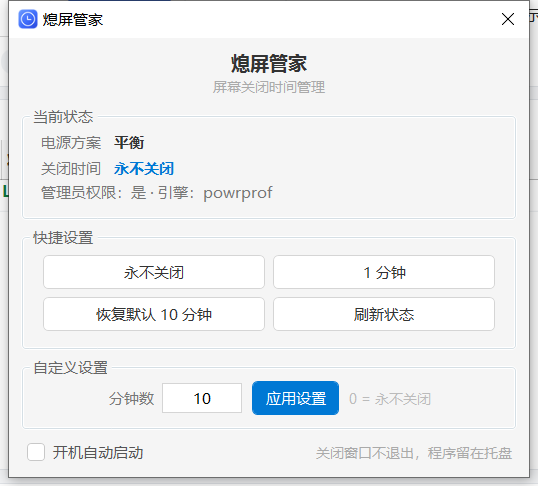
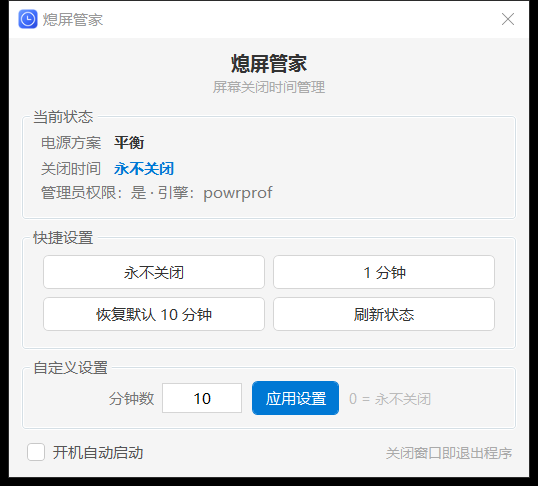
004 取消托盘常驻：关闭窗口直接退出进程
- 移除 TrayService 与托盘生命周期，关闭主窗口即结束进程（ShutdownMode=OnMainWindowClose）
- 去掉 --tray 启动参数与托盘气泡提示，设置项同步移除 TrayTipShown
- 移除 WinForms 依赖（UseWindowsForms 与 WFO0003 抑制），免安装包体积由 73MB 降至 63MB
- README 同步为「关闭即退出」的实际行为，更新界面截图

Changed region(s): [[0.0, 0.0, 1.0, 1.0], [0.0595, 0.0, 0.2082, 0.0617], [0.9219, 0.0309, 0.9517, 0.0617]]

diff --git a/004一款电脑定时关屏幕小工具/ScreenOffManager/MainWindow.xaml b/004一款电脑定时关屏幕小工具/ScreenOffManager/MainWindow.xaml
@@ -101,7 +101,7 @@
             </Grid>
         </GroupBox>
 
-        <!-- 底部：开机自启 + 托盘提示 -->
+        <!-- 底部：开机自启 -->
         <Grid Grid.Row="4" Margin="14,10,14,0">
             <Grid.ColumnDefinitions>
                 <ColumnDefinition Width="Auto" />
@@ -112,7 +112,7 @@
                       IsChecked="{Binding IsAutoStart}"
                       VerticalAlignment="Center" />
 
-            <TextBlock Grid.Column="1" Text="关闭窗口不退出，程序留在托盘"
+            <TextBlock Grid.Column="1" Text="关闭窗口即退出程序"
                        HorizontalAlignment="Right" VerticalAlignment="Center"
                        Foreground="#AAAAAA" FontSize="11" />
         </Grid>

diff --git a/004一款电脑定时关屏幕小工具/ScreenOffManager/App.xaml b/004一款电脑定时关屏幕小工具/ScreenOffManager/App.xaml
@@ -1,7 +1,7 @@
 <Application x:Class="ScreenOffManager.App"
              xmlns="http://schemas.microsoft.com/winfx/2006/xaml/presentation"
              xmlns:x="http://schemas.microsoft.com/winfx/2006/xaml"
-             ShutdownMode="OnExplicitShutdown">
+             ShutdownMode="OnMainWindowClose">
     <Application.Resources>
         <ResourceDictionary>
             <ResourceDictionary.MergedDictionaries>

diff --git a/004一款电脑定时关屏幕小工具/ScreenOffManager/App.xaml.cs b/004一款电脑定时关屏幕小工具/ScreenOffManager/App.xaml.cs
@@ -2,22 +2,17 @@ using System.Threading;
 using System.Windows;
 using System.Windows.Threading;
 using ScreenOffManager.Services;
-using ScreenOffManager.ViewModels;
 
 namespace ScreenOffManager;
 
 /// <summary>
-/// 应用入口：单实例、全局异常兜底、托盘生命周期。
-/// 关闭窗口只是隐藏，退出必须走托盘菜单（或再次点击托盘「退出」）。
+/// 应用入口：单实例与全局异常兜底。
+/// 关闭主窗口即退出进程，不常驻后台、不驻留托盘。
 /// </summary>
 public partial class App
 {
     private Mutex? _mutex;
-    private TrayService? _tray;
-    private MainWindow? _window;
-    private MainViewModel? _viewModel;
     private AppSettings _settings = new();
-    private bool _exiting;
 
     protected override void OnStartup(StartupEventArgs e)
     {
@@ -25,7 +20,7 @@ public partial class App
         _mutex = new Mutex(true, @"Local\ScreenOffManager.SingleInstance", out var isFirstInstance);
         if (!isFirstInstance)
         {
-            System.Windows.MessageBox.Show("熄屏管家已经在运行了，请查看系统托盘。", "熄屏管家",
+            System.Windows.MessageBox.Show("熄屏管家已经在运行了，请查看任务栏。", "熄屏管家",
                 System.Windows.MessageBoxButton.OK, System.Windows.MessageBoxImage.Information);
             Shutdown();
             return;
@@ -37,49 +32,8 @@ public partial class App
         _settings = AppSettings.Load();
         Log.Info($"启动：管理员={PowerSettingsService.IsAdmin()}");
 
-        _window = new MainWindow(_settings);
-        _viewModel = _window.ViewModel;
-
-        _tray = new TrayService(StartupManager.IsEnabled);
-        _tray.OpenRequested += ShowMainWindow;
-        _tray.PresetRequested += minutes =>
-            Dispatcher.InvokeAsync(() => _ = _viewModel.ApplyPresetAsync(minutes, showDialog: false));
-        _tray.AutoStartToggled += enabled =>
-            Dispatcher.InvokeAsync(() => _viewModel.IsAutoStart = enabled);
-        _tray.ExitRequested += ExitApplication;
-
-        _viewModel.BalloonRequested += (title, text) =>
-            _tray.ShowTip(title, text, warning: title.Contains("失败"));
-
-        // 主界面勾选变化 → 同步托盘菜单的勾选状态
-        _viewModel.PropertyChanged += (_, args) =>
-        {
-            if (args.PropertyName == nameof(MainViewModel.IsAutoStart))
-                _tray.SyncAutoStart(_viewModel.IsAutoStart);
-        };
-
-        // 关窗 = 收进托盘
-        _window.HideRequested += (_, _) =>
-        {
-            _window.Hide();
-
-            if (!_settings.TrayTipShown)
-            {
-                _tray.ShowTip("熄屏管家仍在运行", "关闭窗口不会退出程序。右键托盘图标可以快速切换，菜单里可以退出。");
-                _settings.TrayTipShown = true;
-                _settings.Save();
-            }
-        };
-
-        var startMinimized = e.Args.Any(a => a.Equals("--tray", StringComparison.OrdinalIgnoreCase));
-        if (startMinimized)
-        {
-            _tray.ShowTip("熄屏管家已启动", "程序在托盘后台运行，双击图标打开主界面。");
-        }
-        else
-        {
-            ShowMainWindow();
-        }
+        MainWindow = new MainWindow(_settings);
+        MainWindow.Show();
     }
 
     private void RegisterExceptionHandlers()
@@ -108,34 +62,9 @@ public partial class App
         e.Handled = true;
     }
 
-    private void ShowMainWindow()
-    {
-        if (_window is null) return;
-
-        _window.Show();
-        if (_window.WindowState == WindowState.Minimized)
-            _window.WindowState = WindowState.Normal;
-
-        _window.Activate();
-        _window.Topmost = true;
-        _window.Topmost = false;
-    }
-
-    private void ExitApplication()
-    {
-        if (_exiting) return;
-        _exiting = true;
-
-        _settings.Save();
-        _tray?.Dispose();
-        _window?.AllowClose();
-        Shutdown();
-    }
-
     protected override void OnExit(ExitEventArgs e)
     {
-        _tray?.Dispose();
-
+        try { _settings.Save(); } catch { /* 退出阶段忽略 */ }
         try { _mutex?.Dispose(); } catch { /* 忽略 */ }
 
         base.OnExit(e);

diff --git a/004一款电脑定时关屏幕小工具/ScreenOffManager/ViewModels/MainViewModel.cs b/004一款电脑定时关屏幕小工具/ScreenOffManager/ViewModels/MainViewModel.cs
@@ -8,11 +8,8 @@ public class MainViewModel : ObservableObject
     private readonly PowerSettingsService _service = new();
     private readonly AppSettings _settings;
 
-    /// <summary>需要在界面上弹窗提示（前台操作）</summary>
+    /// <summary>需要在界面上弹窗提示</summary>
     public event Action<string, string>? MessageRequested;
-
-    /// <summary>需要用托盘气泡提示（后台操作，不打断用户）</summary>
-    public event Action<string, string>? BalloonRequested;
 
     private string _schemeName = "读取中…";
     private string _timeoutText = "读取中…";
@@ -138,8 +135,8 @@ public class MainViewModel : ObservableObject
         }
     }
 
-    /// <summary>应用预设分钟数。showDialog=false 时用托盘气泡反馈（后台操作不打扰）</summary>
-    public async Task ApplyPresetAsync(int minutes, bool showDialog = true)
+    /// <summary>应用预设分钟数</summary>
+    public async Task ApplyPresetAsync(int minutes)
     {
         if (IsRefreshing) return;
         IsRefreshing = true;
@@ -150,12 +147,12 @@ public class MainViewModel : ObservableObject
         {
             await Task.Run(() => _service.SetScreenTimeout(minutes));
             await RefreshAsync();
-            Notify("设置成功", $"屏幕关闭时间已设置为「{label}」。", showDialog);
+            MessageRequested?.Invoke("设置成功", $"屏幕关闭时间已设置为「{label}」。");
         }
         catch (Exception ex)
         {
             Log.Error($"设置屏幕关闭时间失败（{label}）", ex);
-            Notify("设置失败", ex.Message, showDialog);
+            MessageRequested?.Invoke("设置失败", ex.Message);
             await RefreshAsync();
         }
         finally
@@ -184,13 +181,5 @@ public class MainViewModel : ObservableObject
         _settings.Save();
 
         await ApplyPresetAsync(minutes);
-    }
-
-    private void Notify(string title, string message, bool showDialog)
-    {
-        if (showDialog)
-            MessageRequested?.Invoke(title, message);
-        else
-            BalloonRequested?.Invoke(title, message);
     }
 }

diff --git a/004一款电脑定时关屏幕小工具/ScreenOffManager/MainWindow.xaml.cs b/004一款电脑定时关屏幕小工具/ScreenOffManager/MainWindow.xaml.cs
@@ -1,4 +1,3 @@
-using System.ComponentModel;
 using System.Windows;
 using ScreenOffManager.Services;
 using ScreenOffManager.ViewModels;
@@ -7,12 +6,7 @@ namespace ScreenOffManager;
 
 public partial class MainWindow : Window
 {
-    private bool _allowClose;
-
     public MainViewModel ViewModel { get; }
-
-    /// <summary>用户尝试关闭窗口（由 App 决定收进托盘还是退出）</summary>
-    public event EventHandler? HideRequested;
 
     public MainWindow(AppSettings settings)
     {
@@ -29,32 +23,9 @@ public partial class MainWindow : Window
 
         Dispatcher.Invoke(() =>
         {
-            // 窗口隐藏时不要弹无主对话框，避免用户找不到
-            if (IsVisible)
-            {
-                System.Windows.MessageBox.Show(this, message, title,
-                    System.Windows.MessageBoxButton.OK,
-                    isError ? System.Windows.MessageBoxImage.Error : System.Windows.MessageBoxImage.Information);
-            }
+            System.Windows.MessageBox.Show(this, message, title,
+                System.Windows.MessageBoxButton.OK,
+                isError ? System.Windows.MessageBoxImage.Error : System.Windows.MessageBoxImage.Information);
         });
-    }
-
-    protected override void OnClosing(CancelEventArgs e)
-    {
-        if (!_allowClose)
-        {
-            // 关窗只隐藏，程序继续在托盘运行
-            e.Cancel = true;
-            HideRequested?.Invoke(this, EventArgs.Empty);
-        }
-
-        base.OnClosing(e);
-    }
-
-    /// <summary>真正的退出（由托盘「退出」调用）</summary>
-    public void AllowClose()
-    {
-        _allowClose = true;
-        Close();
     }
 }

diff --git a/004一款电脑定时关屏幕小工具/ScreenOffManager/Services/AppSettings.cs b/004一款电脑定时关屏幕小工具/ScreenOffManager/Services/AppSettings.cs
@@ -11,9 +11,6 @@ public class AppSettings
     /// <summary>上次使用的自定义分钟数</summary>
     public string LastCustomMinutes { get; set; } = "10";
 
-    /// <summary>是否已经提示过"关闭窗口会留在托盘"</summary>
-    public bool TrayTipShown { get; set; }
-
     private static string DataDirectory => Path.Combine(
         Environment.GetFolderPath(Environment.SpecialFolder.ApplicationData), "ScreenOffManager");
 

diff --git a/004一款电脑定时关屏幕小工具/ScreenOffManager/Services/StartupManager.cs b/004一款电脑定时关屏幕小工具/ScreenOffManager/Services/StartupManager.cs
@@ -50,8 +50,8 @@ public static class StartupManager
                     return;
                 }
 
-                // --tray：开机时静默启动到托盘，不弹窗打扰
-                key.SetValue(ValueName, $"\"{exe}\" --tray");
+                // 直接启动主界面：程序不常驻后台，启动即是可用状态
+                key.SetValue(ValueName, $"\"{exe}\"");
             }
             else
             {

diff --git a/004一款电脑定时关屏幕小工具/README.md b/004一款电脑定时关屏幕小工具/README.md
@@ -17,7 +17,7 @@
 | **自定义设置** | 输入 0–1440 分钟，非法输入有明确提示，并记住上次的值 |
 | **读写方式** | 直接调用系统电源接口，不启动外部进程，无控制台窗口闪现 |
 | **语言无关** | 不解析系统输出文本，中文 / 英文 / 其他语言的 Windows 读数一致 |
-| **托盘常驻** | 关闭窗口只是收进托盘，右键菜单可直接切换，双击打开主界面 |
+| **关闭即退出** | 关窗即结束进程，不常驻后台、不留托盘图标 |
 | **开机自启** | 一键写入 `HKCU\...\Run`，免管理员、免任务计划 |
 | **单实例** | 重复启动会给出提示并退出，避免多开互抢设置 |
 | **异常兜底** | 全局异常捕获 + 文件日志，出问题能查得清 |
@@ -37,7 +37,7 @@
     ├── ScreenOffManager.csproj
     ├── app.manifest                        # asInvoker + PerMonitorV2 DPI 感知
     ├── AssemblyInfo.cs
-    ├── App.xaml / App.xaml.cs              # 入口：单实例、全局异常兜底、托盘生命周期
+    ├── App.xaml / App.xaml.cs              # 入口：单实例、全局异常兜底
     ├── MainWindow.xaml / MainWindow.xaml.cs
     ├── Models/
     │   └── PowerSchemeInfo.cs              # 电源方案数据模型 + 时长格式化
@@ -47,7 +47,6 @@
     │   ├── PowerSettingsService.cs         # 编排：原生优先，失败降级
     │   ├── AppSettings.cs                  # %AppData% 配置持久化
     │   ├── StartupManager.cs               # 开机自启（注册表 Run 项）
-    │   ├── TrayService.cs                  # 托盘图标与右键菜单
     │   └── Log.cs                          # 极简文件日志
     ├── ViewModels/
     │   ├── ObservableObject.cs             # INotifyPropertyChanged 基类
@@ -74,7 +73,6 @@
 |------|------|
 | .NET 10 / WPF | 桌面应用框架 |
 | `powrprof.dll` P/Invoke | 读写电源方案（`PowerReadACValueIndex` / `PowerWriteACValueIndex` 等） |
-| WinForms `NotifyIcon` | 托盘图标（`UseWindowsForms`，零第三方依赖） |
 | `Microsoft.Win32.Registry` | 开机自启 |
 | `System.Text.Json` | 配置持久化 |
 | MVVM | UI 与业务解耦 |
@@ -131,11 +129,11 @@ dotnet publish ScreenOffManager.csproj -c Release -r win-x64 \
 3. **自定义设置**：填分钟数后点「应用设置」（0 = 永不关闭）
 4. **开机自动启动**：勾选即写入注册表，取消即删除
 
-### 托盘
+### 退出程序
 
-- 点窗口右上角 **×** ≠ 退出，只是收进托盘（首次会弹气泡说明）
-- **双击**托盘图标：打开主界面
-- **右键**托盘图标：永不关闭 / 1 分钟 / 10 分钟 / 开机自启 / 退出
+- 点窗口右上角 **×** 即退出，进程随之结束，不常驻后台
+- 程序不提供托盘图标，也不支持手动最小化到托盘
+- 需要再次使用时重新启动即可
 
 ### 数据位置
 
